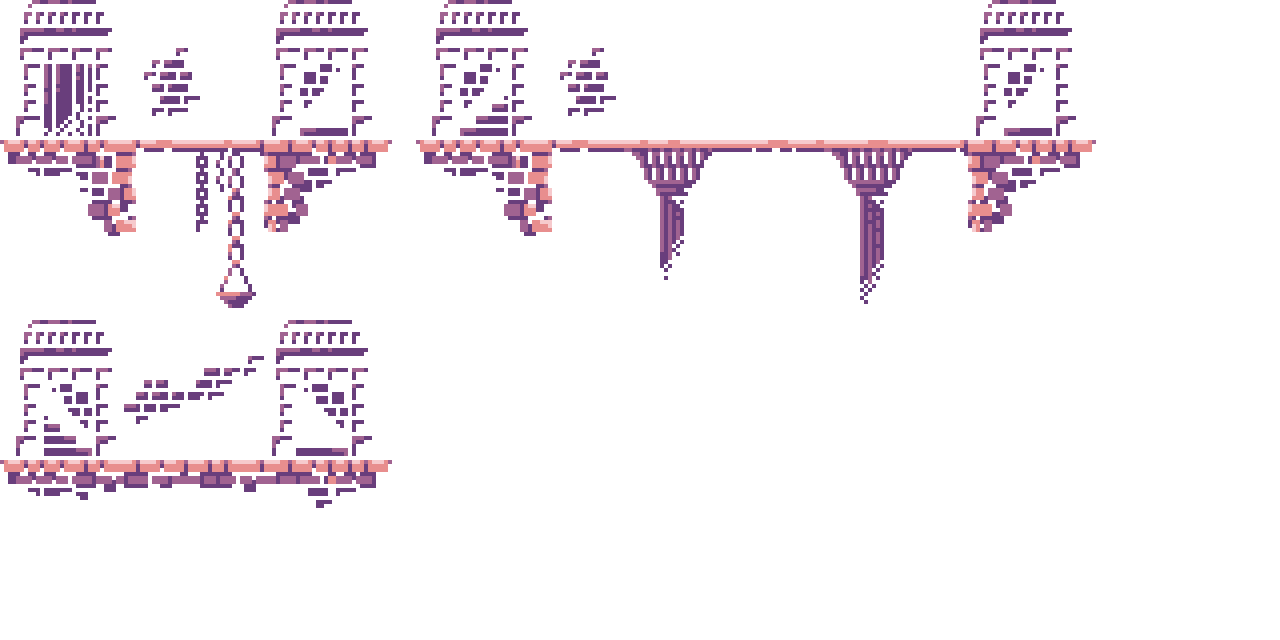
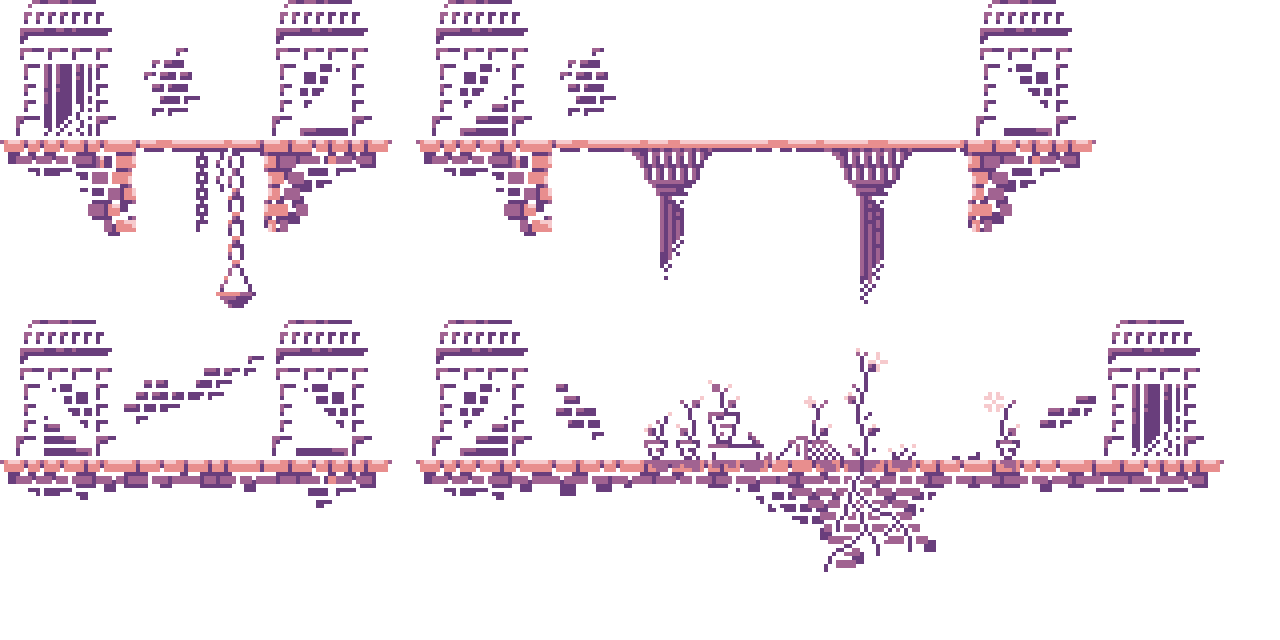
Adding level4. Fixing a typo in description of level 1

diff --git a/script.js b/script.js
@@ -163,7 +163,7 @@ class Levels {
                 "content": "Hello adventurer! ....."
                             + "\nUse the 'a' and 'd' keys to move"
                             + "\nUse the 'w' key to enter a door"
-                            + "\nUse the spaceabr to attack"
+                            + "\nUse the spacebar to attack"
                             
             },
             {
@@ -189,8 +189,22 @@ class Levels {
                 "sourceY": 0,
                 "localYRefPos": 140,
                 "localAscendDoorXPos": 30,
-                "localDescendDoorXPos": -1,
+                "localDescendDoorXPos": 574,
                 "cameraPosY": -1100,
+                "contentSide": -1,
+                "content": "This should not be visible!"
+            },
+            {
+                "xPos": 240,
+                "yPos": 1900,
+                "width": 808,
+                "height": 307,
+                "sourceX": 416,
+                "sourceY": 320,
+                "localYRefPos": 140,
+                "localAscendDoorXPos": 30,
+                "localDescendDoorXPos": -1,
+                "cameraPosY": -1700,
                 "contentSide": -1,
                 "content": "This should not be visible!"
             }
